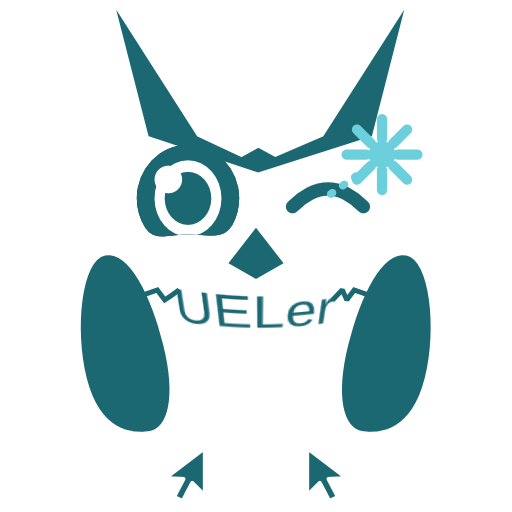
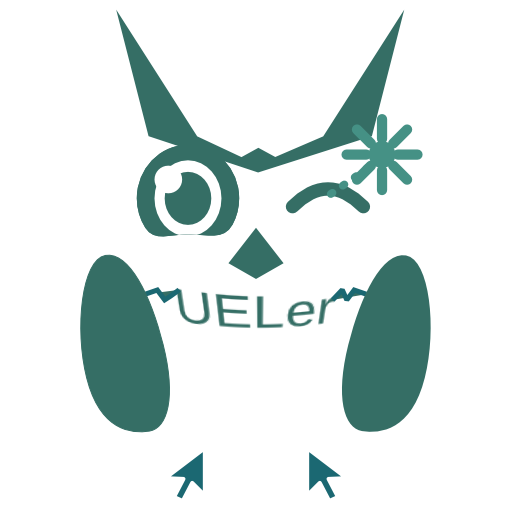
Bug fixed: fix scatter plot rendering issues in multi-pair mode by setting explicit pixel width for matrix plots; related to reply 1 to issue #118

diff --git a/ueler/viewer/plugin/scatter_widget.py b/ueler/viewer/plugin/scatter_widget.py
@@ -117,9 +117,8 @@ class ScatterPlotWidget:
             data_use_index=True,
             # Pad the x/y domains at construction so edge points are never
             # clipped (#118) and the axis scale domain is set before the first
-            # render. (The camera still needs a reset once the frontend mounts —
-            # see ``_reset_view_when_ready`` below — because jscatter fits the
-            # view and lays out the axes on the frontend, #118 reply.)
+            # render (setting the scale post-construction re-normalizes the
+            # points without re-fitting the view, #118 reply).
             x_scale=_padded_domain(self._data[x]),
             y_scale=_padded_domain(self._data[y]),
         )
@@ -138,23 +137,15 @@ class ScatterPlotWidget:
         # a fresh widget has ``layout.height = None`` and self-sizes from its
         # ``height`` trait). Pinning it to the plot height clips both axes — for
         # single-pair plots as well as the matrix (#113 reply). Width only.
-        self._jwidget.layout = Layout(width="100%")
         self._jwidget.mouse_mode = "panZoom"
+        # Start bound to the container ('auto'); the multi-pair matrix switches
+        # each plot to an explicit pixel width via ``set_canvas_width`` (#118).
+        self.set_canvas_width("auto")
 
         self._selection_handler = self._create_selection_handler()
         self._hover_handler = self._create_hover_handler()
         self._jwidget.observe(self._selection_handler, names="selection")
         self._jwidget.observe(self._hover_handler, names="hovering")
-
-        # jscatter fits the camera and lays out the axes on the *frontend*. On
-        # first mount the view opened mis-framed — the right-hand y-axis ticks
-        # and labels were hidden until the user clicked "reset view" (#118 reply).
-        # ``dom_element_id`` is a read-only trait the frontend writes once it has
-        # mounted the widget in the DOM, so it is a reliable "frontend ready"
-        # signal: reset the view then to reproduce the reset-view click
-        # programmatically, so every plot opens correctly framed.
-        self._reset_handler = self._create_reset_handler()
-        self._jwidget.observe(self._reset_handler, names="dom_element_id")
 
         self.state = ScatterViewState(
             identifier=identifier,
@@ -202,16 +193,29 @@ class ScatterPlotWidget:
 
         return _handler
 
-    def _create_reset_handler(self):
-        def _handler(_change):
-            reset_view = getattr(self._jwidget, "reset_view", None)
-            if callable(reset_view):
-                try:
-                    reset_view()
-                except Exception:  # pragma: no cover - defensive; frontend race
-                    pass
+    def set_canvas_width(self, width: Union[int, str]) -> None:
+        """Set the plot width in pixels, or ``"auto"`` to bind to the container.
 
-        return _handler
+        In the multi-pair footer matrix jscatter's ``"auto"`` width relies on a
+        frontend ``ResizeObserver`` that mis-measured the (initially hidden /
+        not-yet-laid-out) grid cell: the canvas rendered too narrow, leaving a
+        blank strip and hiding the right-hand y-axis ticks/labels until the user
+        clicked "reset view". An explicit pixel width removes that measurement
+        entirely, so every plot renders correctly framed on the first render
+        without any reset (#118 reply). Single-pair plots keep ``"auto"`` (they
+        live in the always-visible side panel, where measurement is reliable).
+        """
+        if width == "auto":
+            self._scatter.width("auto")
+            self._jwidget.layout = Layout(width="100%")
+        else:
+            self._scatter.width(int(width))
+            # Do NOT pin the DOM width to the plot width (mirrors the height note
+            # above): jscatter draws the right-hand y-axis ticks/label *outside*
+            # the plot canvas, so the widget must be free to self-size wider than
+            # the plot — pinning it re-clips the axis. The ``width`` trait sizes
+            # the WebGL plot area; the DOM element self-sizes around it.
+            self._jwidget.layout = Layout()
 
     def _emit_selection(self, indices: Set[Union[int, str]], origin: str) -> None:
         for callback in self._selection_callbacks:
@@ -315,7 +319,6 @@ class ScatterPlotWidget:
     def dispose(self) -> None:
         self._jwidget.unobserve(self._selection_handler, names="selection")
         self._jwidget.unobserve(self._hover_handler, names="hovering")
-        self._jwidget.unobserve(self._reset_handler, names="dom_element_id")
         self._selection_callbacks.clear()
         self._hover_callbacks.clear()
 

diff --git a/ueler/viewer/plugin/chart.py b/ueler/viewer/plugin/chart.py
@@ -45,13 +45,22 @@ _SELECTION_NOTICE = (
 # jscatter draws the scatter canvas at its ``height`` trait (see
 # ``scatter_widget``) and reserves ~36px *outside* the canvas for the x-axis
 # ticks + label (``jscatter.compose`` uses AXES_PADDING_Y=20 + AXES_LABEL_SIZE=16).
-# The pairwise matrix therefore uses fixed-height CSS-grid rows tall enough for
-# canvas + axes so nothing clips, matching how ``jscatter.compose`` lays out a
-# grid. Fixed rows + ``1fr`` columns also give each cell a *definite* size, so
-# jscatter measures the correct width on first layout and fills the cell (#118).
+# The pairwise matrix uses fixed-height CSS-grid rows tall enough for canvas +
+# axes so nothing clips, matching how ``jscatter.compose`` lays out a grid.
+#
+# Each matrix plot is also given an *explicit* pixel width (#118): jscatter's
+# default ``width='auto'`` binds to the container via a frontend ResizeObserver
+# that mis-measured the (initially hidden) footer grid cell — the canvas rendered
+# too narrow, leaving a blank strip and hiding the right-hand y-axis until the
+# user clicked "reset view". A fixed width removes that measurement so every plot
+# renders correctly framed on the first render. Columns are content-sized
+# (``auto``) to hug the fixed-width plots; the matrix left-aligns in the footer.
 _SCATTER_CANVAS_HEIGHT_PX = 320
 _SCATTER_AXES_RESERVE_PX = 36
 _SCATTER_ROW_HEIGHT_PX = _SCATTER_CANVAS_HEIGHT_PX + _SCATTER_AXES_RESERVE_PX
+# Canvas width of each plot in the multi-pair matrix (px). The full cell is a bit
+# wider (toolbar buttons on the left + the right-hand y-axis reserve).
+_SCATTER_MATRIX_CANVAS_WIDTH_PX = 360
 
 
 class ChartDisplay(PluginBase):
@@ -479,6 +488,9 @@ class ChartDisplay(PluginBase):
             return
         if len(self._scatter_views) == 1:
             view = next(iter(self._scatter_views.values()))
+            # Single plot lives in the always-visible side panel, where the
+            # container width is reliable — bind to it (#118).
+            view.set_canvas_width("auto")
             self._plot_host.children = [view.widget()]
             return
         grid = self._triangular_grid()
@@ -502,13 +514,14 @@ class ChartDisplay(PluginBase):
         """Lay the pairwise scatters out as an upper-triangular matrix (#113).
 
         Built as a CSS-grid ``GridBox`` — the same layout ``jscatter.compose``
-        uses — rather than nested flexbox: ``N-1`` equal ``1fr`` columns and
-        fixed-height rows give every cell a *definite* size, so each jscatter
-        canvas measures the correct width on first layout and fills its cell
-        instead of leaving blank space / a mis-scaled second axis grid (#118).
-        Cells are laid out row-major: row ``i`` has ``i`` leading blanks (lower
+        uses — rather than nested flexbox. Each plot is given an *explicit* pixel
+        width (see ``_plot_cell``), so ``N-1`` content-sized (``auto``) columns
+        hug the fixed-width plots and jscatter never has to measure the container
+        (which mis-rendered the canvas / hid the right-hand y-axis, #118). Cells
+        are laid out row-major: row ``i`` has ``i`` leading blanks (lower
         triangle) then the plots for ``(i, j)``, ``j > i``; the CSS grid places
-        them left→right, top→bottom.
+        them left→right, top→bottom (column widths are anchored by row 0, which
+        has a plot in every column).
 
         Returns the ``GridBox`` when a full pairwise matrix for
         ``self._multipair_channels_last`` is present — with any extra
@@ -556,17 +569,19 @@ class ChartDisplay(PluginBase):
             children=cells,
             layout=Layout(
                 width="100%",
-                grid_template_columns=" ".join(["1fr"] * cols),
+                grid_template_columns=" ".join(["auto"] * cols),
                 grid_auto_rows=f"{_SCATTER_ROW_HEIGHT_PX}px",
                 grid_gap="8px",
+                justify_content="initial",
             ),
         )
 
     @staticmethod
     def _plot_cell(view):
-        # Return the scatter widget directly as a grid item; CSS grid stretches
-        # it to fill the ``1fr`` cell, so jscatter (width='auto') gets the full
-        # cell width.
+        # Give the plot an explicit pixel width so jscatter does not rely on the
+        # frontend measuring the (initially hidden) grid cell — the failure mode
+        # that left the canvas narrow and the right-hand y-axis hidden (#118).
+        view.set_canvas_width(_SCATTER_MATRIX_CANVAS_WIDTH_PX)
         return view.widget()
 
     @staticmethod

diff --git a/tests/test_scatter_widget_dependencies.py b/tests/test_scatter_widget_dependencies.py
@@ -61,23 +61,29 @@ class ScatterWidgetColoringTests(unittest.TestCase):
         self.assertEqual(scatter._color_map[2], (0.0, 0.0, 1.0, 1.0))
 
 
-class ScatterWidgetResetViewTests(unittest.TestCase):
-    def test_reset_view_fires_when_frontend_ready(self):
-        # jscatter lays out the axes / fits the camera on the frontend; the
-        # widget must call reset_view() once the frontend mounts (signalled by
-        # the read-only dom_element_id trait) so the plot opens correctly framed
-        # without a manual "reset view" click (#118 reply).
+class ScatterWidgetCanvasWidthTests(unittest.TestCase):
+    def test_explicit_width_is_deterministic_no_container_measurement(self):
+        # In the multi-pair matrix the plot gets an explicit pixel width so
+        # jscatter does not rely on the frontend measuring the (initially hidden)
+        # grid cell — the failure mode that left the canvas narrow and the
+        # right-hand y-axis hidden until "reset view" (#118 reply).
         from ueler.viewer.plugin.scatter_widget import ScatterPlotWidget
 
         frame = pd.DataFrame({"x": [1, 2, 3], "y": [4, 5, 6]}, index=[10, 20, 30])
         widget = ScatterPlotWidget("test", frame, "x", "y")
 
-        calls = []
-        widget._jwidget.reset_view = lambda *a, **k: calls.append((a, k))
-        # Simulate the frontend writing dom_element_id on mount.
-        widget._reset_handler({"name": "dom_element_id", "new": "scatter-dom-1"})
+        # Defaults to 'auto' (bound to the container).
+        self.assertEqual(widget.scatter.width(), "auto")
 
-        self.assertEqual(len(calls), 1)
+        widget.set_canvas_width(360)
+        self.assertEqual(widget.scatter.width(), 360)
+        # The DOM width must NOT be pinned to the plot width, or the right-hand
+        # y-axis (drawn outside the plot canvas) is clipped again (#118 reply).
+        self.assertIsNone(getattr(widget._jwidget.layout, "width", None))
+
+        widget.set_canvas_width("auto")
+        self.assertEqual(widget.scatter.width(), "auto")
+        self.assertEqual(getattr(widget._jwidget.layout, "width", None), "100%")
 
 
 if __name__ == "__main__":

diff --git a/tests/bootstrap.py b/tests/bootstrap.py
@@ -1373,6 +1373,11 @@ def _build_jscatter_stub() -> types.ModuleType:
                 self._y_scale = scale
             return self
 
+        def width(self, value=None):
+            if value is not None:
+                self._width = value
+            return getattr(self, "_width", "auto")
+
         def height(self, value=None):
             if value is not None:
                 self._height = value

diff --git a/dev_note/issue_tracking/issue118_scatter_crop_wide_layout.md b/dev_note/issue_tracking/issue118_scatter_crop_wide_layout.md
@@ -76,13 +76,23 @@ NDC, a 5% margin inside the default `[-1, 1]` view) and the axis scale domain is
 first render. **This was necessary but not sufficient** — the plots still opened with the
 right-hand y-axis ticks/labels hidden until "reset view".
 
-**Fix (part 2 — reset the view once the frontend mounts):** jscatter fits the camera and lays
-out the axes on the *frontend*, and that layout did not happen on first mount. `ScatterPlotWidget`
-now observes the widget's read-only **`dom_element_id`** trait — which the frontend writes once
-it has mounted the widget in the DOM (the standard anywidget "frontend ready" signal) — and calls
-`widget.reset_view()` when it fires, reproducing the "reset view" click programmatically so every
-plot opens correctly framed. The observer is torn down in `dispose()`. This is exactly the
-developer's suggestion: call the reset-view callback once the plot is rendered.
+**Fix (part 2 — explicit pixel width; supersedes a reset-view attempt):** the matrix plots still
+opened with the canvas too narrow and the right-hand y-axis ticks/labels hidden, fixed only by a
+manual **reset view**. An earlier attempt auto-triggered `reset_view()` when the frontend writes
+the read-only `dom_element_id` trait; **this did not work in practice** (verified live in VS Code,
+editable install) — that trait is not a reliable mount signal / fires before layout — so it was
+removed. Root cause: jscatter's default `width='auto'` binds the plot to its container via a
+frontend `ResizeObserver`, which mis-measured the initially-hidden footer grid cell, so the canvas
+rendered narrow and the y-axis (drawn *outside* the plot canvas) had no room; "reset view" only
+helped because it re-measures once the cell is finally laid out.
+
+The deterministic fix: give each matrix plot an **explicit pixel width** (`Scatter.width(360)` via
+`ScatterPlotWidget.set_canvas_width`) so jscatter never has to measure the container and renders
+correctly on the first render. The matrix `GridBox` columns are content-sized (`auto`,
+`justify_content: start`) to hug the fixed-width plots. The DOM `layout.width` is deliberately
+**not** pinned to the plot width (mirroring the height note) so the widget self-sizes wider and the
+outside-the-canvas y-axis is not clipped. Single-pair plots keep `'auto'` (always-visible side
+panel, where measurement is reliable).
 
 ## Tests
 
@@ -101,8 +111,10 @@ developer's suggestion: call the reset-view callback once the plot is rendered.
   `1fr` column count, instead of the old nested `VBox`/`HBox` rows.
 - `tests/bootstrap.py` — the jscatter `Scatter` stub `__init__` now accepts `x_scale` /
   `y_scale` kwargs (construction-time scale).
-- `tests/test_scatter_widget_dependencies.py` — new `ScatterWidgetResetViewTests`:
-  `reset_view()` fires when the `dom_element_id` "frontend ready" trait is written.
+- `tests/test_scatter_widget_dependencies.py` — `ScatterWidgetCanvasWidthTests`: an explicit
+  width sets the jscatter `width` trait and leaves the DOM width unpinned; `'auto'` restores
+  container binding. (The earlier `dom_element_id`/reset-view observer and its test were removed.)
+- `tests/bootstrap.py` — the jscatter `Scatter` stub gained a `width()` method.
 
 Full suite: failure/error set identical to the `develop` baseline (31 pre-existing, no new
 failures/errors).

diff --git a/doc/log.md b/doc/log.md
@@ -1,7 +1,8 @@
 ### v0.4.2
-**Reply to #118 (cont.) — Reset the scatter view once the frontend mounts**
-- Construction-time scale (below) set the axis domain but the plots still opened mis-framed — the **right-hand y-axis ticks/labels were hidden** until the user clicked **reset view**. jscatter fits the camera and lays out the axes on the *frontend*, and on first mount that layout did not happen. **Fix (the developer's core suggestion — call the reset-view callback once the plot is rendered):** `ScatterPlotWidget` now observes the jscatter widget's read-only `dom_element_id` trait — which the frontend writes once it has mounted the widget in the DOM (the standard anywidget "frontend ready" signal) — and calls `widget.reset_view()` when it fires, reproducing the reset-view click automatically so every plot opens correctly framed (axes/ticks drawn, consistent scale) with no manual click. The observer is torn down in `dispose()`.
-- Tests: new `ScatterWidgetResetViewTests` (reset_view fires when `dom_element_id` is written). All targeted scatter/footer tests pass; full-suite failure/error set identical to the `develop` baseline (no new failures/errors); live rendering to be confirmed in the notebook. See `dev_note/issue_tracking/issue118_scatter_crop_wide_layout.md`.
+**Reply to #118 (cont.) — Give matrix plots an explicit pixel width (supersedes the reset-view attempt)**
+- The pairwise-matrix plots still opened with the **right-hand y-axis ticks/labels hidden** and the canvas too narrow (blank strip on the right); only clicking **reset view** fixed it. The earlier attempt — auto-triggering `reset_view()` when the frontend writes `dom_element_id` — **did not work in practice** (verified live in VS Code, editable install): that read-only trait is not a reliable mount signal / fires before the cell is laid out, so it was removed. **Root cause:** jscatter's default `width='auto'` binds the plot to its container via a frontend `ResizeObserver`, which mis-measured the initially-hidden footer grid cell — the canvas rendered narrow and the y-axis (drawn outside the plot canvas) had no room. "Reset view" only helped because it re-measures once the cell is finally laid out.
+- **Fix (deterministic, no frontend measurement):** each matrix plot is given an **explicit pixel width** (`Scatter.width(360)` via `ScatterPlotWidget.set_canvas_width`) instead of `'auto'`, so jscatter never has to measure the container and renders correctly framed on the first render. The matrix `GridBox` columns are content-sized (`auto`, `justify_content:start`) to hug the fixed-width plots. Crucially the DOM `layout.width` is **not** pinned to the plot width (mirroring the existing height note) — the widget self-sizes wider so the outside-the-canvas y-axis is not clipped. Single-pair plots keep `'auto'` (they render in the always-visible side panel, where measurement is reliable).
+- Tests: `ScatterWidgetCanvasWidthTests` (explicit width sets the `width` trait and leaves the DOM width unpinned; `'auto'` restores container binding); `tests/bootstrap.py` jscatter `Scatter` stub gained `width()`; the removed reset-view test/`dom_element_id` observer are gone. All targeted scatter/footer tests pass; full-suite failure/error set identical to the `develop` baseline (no new failures/errors). See `dev_note/issue_tracking/issue118_scatter_crop_wide_layout.md`.
 
 **Reply to #118 — Initial scatter view mis-scaled until "reset view"**
 - With cropping fixed, the scatters rendered with an **inconsistent initial scale**: the x-axis extent differed between plots and the right-hand y-axis ticks/labels were hidden; clicking jscatter's **reset view** button corrected it. **Root cause:** the padded axis scale was applied *after* the `Scatter` was constructed (`scatter.x(scale=…)` / `scatter.y(scale=…)`). jscatter re-normalizes the points when the scale changes but does **not** re-fit the camera, so the initial view stayed framed for the *un*-padded normalization.

diff --git a/README.md b/README.md
@@ -137,7 +137,7 @@ The GUI can be split into four main regions (wide plugins toggle the optional fo
 
 ## New Update  
 ### **UELer v0.4.2 Summary**
-- Fixed scatter plots cropping points and not filling the width when plotting many pairs (#118): plotting several channels at once used to clip data points near the edges and leave each plot squeezed into part of its space (with a mismatched, doubled-up axis grid), and each plot opened at an inconsistent zoom with its right-side y-axis ticks/labels hidden until you clicked "reset view". Now, when multiple scatter plots are shown in the footer, the **controls sit on top and the plots take the full viewer width**, the pairwise matrix uses a proper grid so **each plot fills its cell with a single, correctly-scaled axis grid**, every scatter reserves a small margin around the data, and **each plot resets its view automatically as soon as it appears** — so points near the axis edges are no longer cut off, the axes/ticks are drawn correctly, and no "reset view" click is needed.
+- Fixed scatter plots cropping points and rendering with hidden axes when plotting many pairs (#118): plotting several channels at once used to clip data points near the edges and render each plot too narrow — leaving a blank strip with the right-side y-axis ticks/labels hidden until you clicked "reset view". Now, when multiple scatter plots are shown in the footer, the **controls sit on top and the plots span the viewer width**, the pairwise matrix is laid out as a proper grid where **each plot is given a fixed size so its axes and ticks always render correctly** (no reliance on the widget guessing its own size), and every scatter reserves a small margin around the data — so points near the edges are no longer cut off and no "reset view" click is needed.
 
 _Earlier changes (v0.4.1 and before) are in the [update log](/doc/log.md)._
 